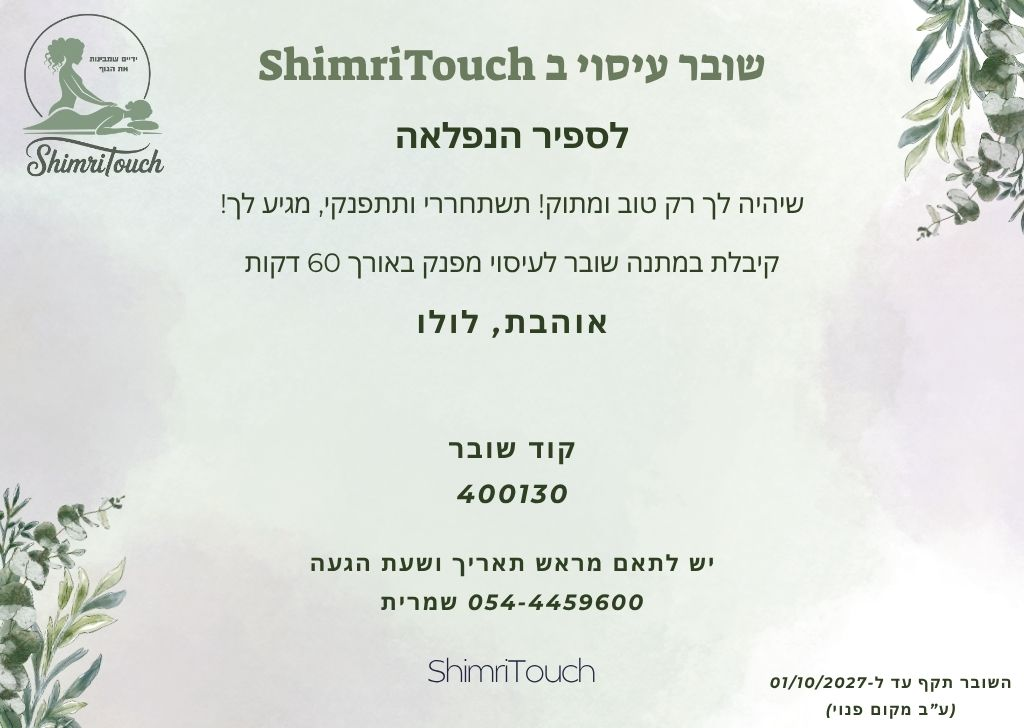
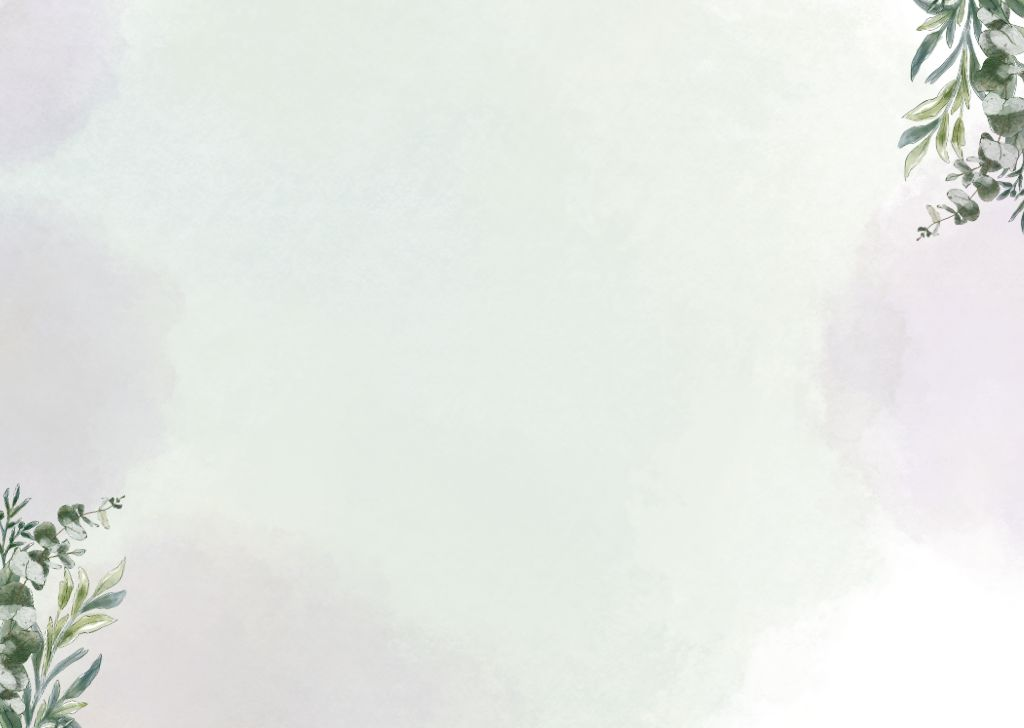
Match the digital voucher to the original gift card on a clean background.
The previous background already contained a finished voucher, so the live text sat on top of it.

diff --git a/css/voucher.css b/css/voucher.css
@@ -10,99 +10,135 @@
 
 .voucher-card {
   position: relative;
+  container-type: inline-size;
   overflow: hidden;
-  border-radius: 28px;
-  background: #f7f4ee url("/assets/images/voucher-bg.jpg") center/cover no-repeat;
-  color: #3e4a3d;
-  box-shadow: 0 24px 70px rgba(62, 74, 61, 0.14);
-  min-height: 460px;
-}
-
-.voucher-card::before {
-  content: "";
-  position: absolute;
-  inset: 0;
-  background: linear-gradient(180deg, rgba(247, 244, 238, 0.78), rgba(247, 244, 238, 0.92));
+  aspect-ratio: 1024 / 728;
+  border-radius: 18px;
+  background: #e6ede6 url("/assets/images/voucher-bg.jpg") center / cover no-repeat;
+  color: #243026;
+  box-shadow: 0 18px 50px rgba(62, 74, 61, 0.12);
 }
 
 .voucher-inner {
-  position: relative;
+  position: absolute;
+  inset: 0;
   z-index: 1;
-  padding: 1.6rem 1.4rem 1.8rem;
+  display: flex;
+  flex-direction: column;
+  padding: 2.8cqi 3.6cqi 8cqi;
   text-align: center;
 }
 
+.voucher-head {
+  position: relative;
+  display: flex;
+  align-items: center;
+  justify-content: center;
+  min-height: 11cqi;
+  margin-bottom: 0.4cqi;
+}
+
 .voucher-logo {
-  height: 72px;
+  position: absolute;
+  top: 0;
+  left: 0;
+  height: 11.5cqi;
   width: auto;
-  margin: 0 auto 0.6rem;
 }
 
 .voucher-kicker {
   font-family: "Frank Ruhl Libre", serif;
-  font-size: clamp(1.5rem, 4vw, 2.1rem);
+  font-size: 4.6cqi;
   font-weight: 700;
-  color: #5b6b58;
-  margin-bottom: 0.4rem;
+  line-height: 1.15;
+  color: #5d6b56;
+  margin: 0;
+  padding-inline-start: 1cqi;
+  padding-inline-end: 16cqi;
 }
 
 .voucher-recipient {
-  font-size: clamp(1.7rem, 5vw, 2.4rem);
+  font-size: 5.1cqi;
   font-weight: 800;
-  margin: 0.2rem 0 0.9rem;
+  line-height: 1.15;
+  margin: 1cqi 0 1cqi;
 }
 
 .voucher-message,
 .voucher-duration,
-.voucher-sender,
-.voucher-code,
 .voucher-contact {
   white-space: pre-line;
-  line-height: 1.7;
+  line-height: 1.45;
 }
 
 .voucher-message,
 .voucher-duration {
-  font-size: 1.12rem;
-  margin-bottom: 0.7rem;
+  font-size: 3.05cqi;
+  font-weight: 500;
+  margin: 0 0 0.7cqi;
 }
 
 .voucher-sender {
-  font-size: 1.35rem;
-  font-weight: 700;
-  margin: 0.4rem 0 1.3rem;
+  font-size: 4.15cqi;
+  font-weight: 800;
+  margin: 0.2cqi 0 1.5cqi;
 }
 
 .voucher-code-label {
+  font-size: 2.9cqi;
   font-weight: 700;
 }
 
 .voucher-code-value {
-  font-size: 1.5rem;
+  font-size: 4.5cqi;
   font-weight: 800;
-  letter-spacing: 0.04em;
-  margin: 0.15rem 0 1rem;
+  letter-spacing: 0.03em;
+  margin: 0.1cqi 0 1.2cqi;
+}
+
+.voucher-contact {
+  font-size: 2.75cqi;
+  font-weight: 600;
+  margin: 0;
+}
+
+.voucher-foot {
+  position: absolute;
+  left: 0;
+  right: 0;
+  bottom: 1.6cqi;
+  display: flex;
+  justify-content: center;
 }
 
 .voucher-brand {
   font-family: "Frank Ruhl Libre", serif;
-  font-size: 1.4rem;
-  color: #6d7a78;
-  margin-top: 0.8rem;
+  font-size: 3.7cqi;
+  font-weight: 500;
+  color: #8d9794;
+  margin: 0;
 }
 
 .voucher-expiry {
-  margin-top: 0.8rem;
-  font-size: 0.92rem;
+  position: absolute;
+  right: 3.4cqi;
+  bottom: 1.8cqi;
+  text-align: right;
+  font-size: 1.85cqi;
+  line-height: 1.3;
+  margin: 0;
+  max-width: 28cqi;
 }
 
 .voucher-stamp {
   display: none;
-  margin: 0.8rem auto 0;
-  width: fit-content;
-  transform: rotate(-8deg);
+  position: absolute;
+  top: 46%;
+  left: 50%;
+  transform: translate(-50%, -50%) rotate(-8deg);
   border: 3px solid #8a2f2f;
   color: #8a2f2f;
+  background: rgba(247, 244, 238, 0.82);
   font-weight: 800;
   padding: 0.35rem 0.9rem;
   border-radius: 8px;

diff --git a/js/voucher-card.js b/js/voucher-card.js
@@ -9,23 +9,30 @@
       .replace(/"/g, "&quot;");
   }
 
+  function recipientLine(name) {
+    var clean = String(name || "").trim().replace(/^ל[\s\u200f]*/, "");
+    return "ל" + escapeHtml(clean);
+  }
+
   function renderVoucherCard(data, options) {
     var redeemed = data.status === "redeemed";
     var expiry = redeemed
       ? "נוצל בתאריך " + escapeHtml(data.redeemed_date || "")
-      : "השובר תקף עד ל-" + escapeHtml(data.expiry_date || "") + "\n(ע״ב מקום פנוי)";
+      : "השובר תקף עד ל-" + escapeHtml(data.expiry_date || "") + "<br />(ע״ב מקום פנוי)";
     var stamp = redeemed ? '<div class="voucher-stamp">נוצל</div>' : "";
     var logo = (options && options.logoSrc) || "/assets/images/ShimriTouch.svg";
     return (
       '<article class="voucher-card' +
       (redeemed ? " is-redeemed" : "") +
       '"><div class="voucher-inner">' +
+      '<header class="voucher-head">' +
       '<img class="voucher-logo" src="' +
       logo +
       '" alt="ShimriTouch" />' +
       '<h1 class="voucher-kicker">שובר עיסוי ב ShimriTouch</h1>' +
-      '<p class="voucher-recipient">ל' +
-      escapeHtml(data.recipient_name || "") +
+      "</header>" +
+      '<p class="voucher-recipient">' +
+      recipientLine(data.recipient_name) +
       "</p>" +
       '<p class="voucher-message">' +
       escapeHtml(data.message || "") +
@@ -41,10 +48,12 @@
       escapeHtml(data.voucher_code || "") +
       "</p>" +
       '<p class="voucher-contact">יש לתאם מראש תאריך ושעת הגעה<br />שמרית 054-4459600</p>' +
-      '<p class="voucher-brand">ShimriTouch</p>' +
+      '<footer class="voucher-foot">' +
       '<p class="voucher-expiry">' +
       expiry +
       "</p>" +
+      '<p class="voucher-brand">ShimriTouch</p>' +
+      "</footer>" +
       stamp +
       "</div></article>"
     );
